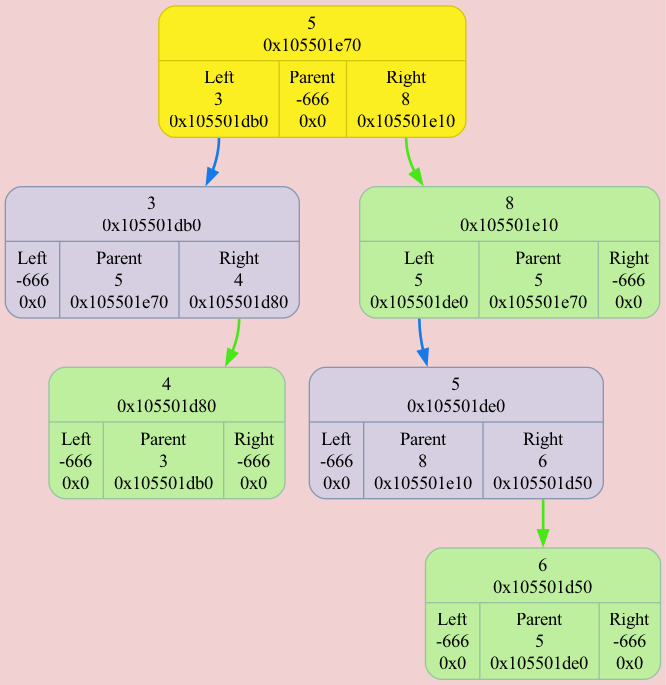
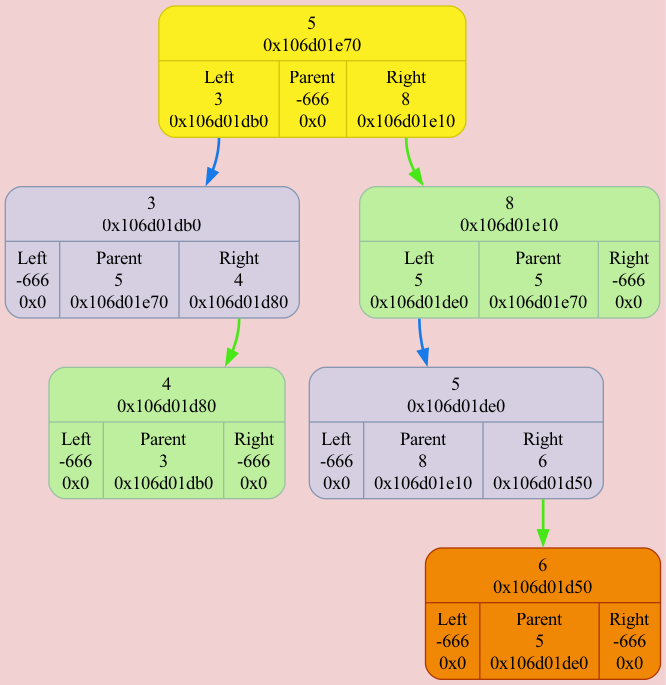
v4.0

diff --git a/dump/tree.html b/dump/tree.html
@@ -13,7 +13,7 @@
 		<div class='circle' style='background-color: #BDEF9E; border-color: #99c2a2;'>right subtree node</div>		<span style='color: #48E818'>&#11153; right subtree edge</span>
 		<div class='circle' style='background-color: #FBEE21; border-color: #D3C70D;'>root node</div>	</div>
 
-						<b>Binary Tree[0x16d4631d0] born at "/Users/anatolij/Documents/GitHub/BinaryTree/source/main.cpp": 11, name 'tree'</b>
+						<b>Binary Tree[0x16bc931b0] born at "/Users/anatolij/Documents/GitHub/BinaryTree/source/main.cpp": 11, name 'tree'</b>
 	<div class='dump'>
 	DUMP #1: function INSERT_IN_TREE was called from /Users/anatolij/Documents/GitHub/BinaryTree/source/main.cpp: 16
 	<img src='img/graph1.png' class='img'></div>

diff --git a/source/BinaryTree_dump.cpp b/source/BinaryTree_dump.cpp
@@ -239,7 +239,7 @@ BinaryTreeStatusCode BinaryTreeGraphDump(Tree* tree, DumpLogInfo dump_info) {
 	DOT_PRINTF("\tfontname = \"UbuntuMono\";\n");
 	DOT_PRINTF("\tbgcolor = %s;\n\n", color.dot_background);
 
-	NodeGraphDump(tree->root, dot_file);
+	NodeGraphDump(tree->root, dot_file, dump_info);
 
 	DOT_PRINTF("}\n");
 
@@ -254,7 +254,7 @@ BinaryTreeStatusCode BinaryTreeGraphDump(Tree* tree, DumpLogInfo dump_info) {
 	return TREE_NO_ERROR;
 }
 
-BinaryTreeStatusCode NodeGraphDump(Node_t* cur_root, FILE* dot_file) {
+BinaryTreeStatusCode NodeGraphDump(Node_t* cur_root, FILE* dot_file, DumpLogInfo dump_info) {
 
 #define DOT_PRINTF(...) fprintf(dot_file, __VA_ARGS__);
 
@@ -268,18 +268,37 @@ BinaryTreeStatusCode NodeGraphDump(Node_t* cur_root, FILE* dot_file) {
 
 	if (cur_root->left) {
 		DOT_PRINTF("\tnode%p:<left> -> node%p [ style = \"bold\"; color = %s ];\n", cur_root, cur_root->left, color.left_edge);
-		NodeGraphDump(cur_root->left, dot_file);
+		NodeGraphDump(cur_root->left, dot_file, dump_info);
 	}
 	if (cur_root->right) {
 		DOT_PRINTF("\tnode%p:<right> -> node%p [ style = \"bold\"; color = %s ];\n", cur_root, cur_root->right, color.right_edge);
-		NodeGraphDump(cur_root->right, dot_file);
-				DOT_PRINTF("\tnode%p [ shape = Mrecord; style = filled; fillcolor = %s; color = %s; fontcolor = %s;"
+		NodeGraphDump(cur_root->right, dot_file, dump_info);
+		DOT_PRINTF("\tnode%p [ shape = Mrecord; style = filled; fillcolor = %s; color = %s; fontcolor = %s;"
 				"label = \" { %d\\n%p | { <left> Left\\n%d\\n%p | Parent\\n%d\\n%p | <right> Right\\n%d\\n%p } } \";  ];\n",
 				cur_root->right, color.right_node, color.right_node_border, color.node_font,
 				cur_root->right->data, cur_root->right,
 				(cur_root->right->left ? cur_root->right->left->data : UNKNOWN_WHAT), cur_root->right->left,
 				(cur_root->right->parent ? cur_root->right->parent->data : UNKNOWN_WHAT), cur_root->right->parent,
 				(cur_root->right->right ? cur_root->right->right->data : UNKNOWN_WHAT), cur_root->right->right);
+	}
+
+	if (cur_root->right == dump_info.pointer) {
+		DOT_PRINTF("\tnode%p [ shape = Mrecord; style = filled; fillcolor = %s; color = %s; fontcolor = %s;"
+				"label = \" { %d\\n%p | { <left> Left\\n%d\\n%p | Parent\\n%d\\n%p | <right> Right\\n%d\\n%p } } \";  ];\n",
+				cur_root->right, color.new_node, color.new_node_border, color.node_font,
+				cur_root->right->data, cur_root->right,
+				(cur_root->right->left ? cur_root->right->left->data : UNKNOWN_WHAT), cur_root->right->left,
+				(cur_root->right->parent ? cur_root->right->parent->data : UNKNOWN_WHAT), cur_root->right->parent,
+				(cur_root->right->right ? cur_root->right->right->data : UNKNOWN_WHAT), cur_root->right->right);
+	}
+	if (cur_root->left == dump_info.pointer) {
+		DOT_PRINTF("\tnode%p [ shape = Mrecord; style = filled; fillcolor = %s; color = %s; fontcolor = %s;"
+				"label = \" { %d\\n%p | { <left> Left\\n%d\\n%p | Parent\\n%d\\n%p | <right> Right\\n%d\\n%p } } \";  ];\n",
+				cur_root->left, color.new_node, color.new_node_border, color.node_font,
+				cur_root->left->data, cur_root->left,
+				(cur_root->left->left ? cur_root->left->left->data : UNKNOWN_WHAT), cur_root->left->left,
+				(cur_root->left->parent ? cur_root->left->parent->data : UNKNOWN_WHAT), cur_root->left->parent,
+				(cur_root->left->right ? cur_root->left->right->data : UNKNOWN_WHAT), cur_root->left->right);
 	}
 
 #undef DOT_PRINTF

diff --git a/include/BinaryTree.hpp b/include/BinaryTree.hpp
@@ -9,9 +9,9 @@ typedef int Data_t;
 
 #define INIT_TREE(tree) Tree tree = { .root = CreateNode(UNKNOWN_WHAT), .info = {.name = #tree, .file_name = __FILE__, .line = __LINE__} }; TREE_CTOR();
 
-#define BINARY_TREE_GRAPH_DUMP(tree, func_name) {	 														\
-	tree_status = BinaryTreeGraphDump(tree, {.file = __FILE__, .line = __LINE__, .func = func_name});		\
-	TREE_ERROR_CHECK(tree_status);																	 		\
+#define BINARY_TREE_GRAPH_DUMP(tree, func_name, point) {	 																\
+	tree_status = BinaryTreeGraphDump(tree, {.file = __FILE__, .line = __LINE__, .func = func_name, .pointer = point});		\
+	TREE_ERROR_CHECK(tree_status);																	 					   \
 }
 
 #define PRINT_TREE(root, order) {			 \
@@ -43,15 +43,18 @@ typedef int Data_t;
 
 #ifndef PRINT_DEBUG
 	#define INSERT_IN_TREE(tree, new_element_data, order) {					 		 \
-		tree_status = InsertInTree((tree)->root, CreateNode(new_element_data));		\
+		Node_t* new_node =  CreateNode(new_element_data);							\
+		tree_status = InsertInTree((tree)->root, new_node);							\
 		TREE_ERROR_CHECK(tree_status);												\
-		BINARY_TREE_GRAPH_DUMP(tree, "INSERT_IN_TREE");								\
+		BINARY_TREE_GRAPH_DUMP(tree, "INSERT_IN_TREE", new_node);					\
 	}
 #else
 	#define INSERT_IN_TREE(root, new_element_data, order) {					 \
-		tree_status = InsertInTree(root, CreateNode(new_element_data));		\
+		Node_t* new_node =  CreateNode(new_element_data);					\
+		tree_status = InsertInTree(root, new_node);							\
 		TREE_ERROR_CHECK(tree_status);										\
 		PRINT_TREE(root, order)												\
+		BINARY_TREE_GRAPH_DUMP(tree, "INSERT_IN_TREE", new_node);			\
 	}
 #endif
 

diff --git a/include/BinaryTree_dump.hpp b/include/BinaryTree_dump.hpp
@@ -24,12 +24,13 @@ struct DumpLogInfo {
 	const char* file;
 	const size_t line;
 	const char* func;
+	const Node_t* pointer;
 };
 
 BinaryTreeStatusCode BinaryTreeCssFile();
 BinaryTreeStatusCode BinaryTreeCreateDumpDir();
 BinaryTreeStatusCode BinaryTreeBashScript(Tree* tree, DumpLogInfo dump_info);
 BinaryTreeStatusCode BinaryTreeGraphDump(Tree* tree, DumpLogInfo dump_info);
-BinaryTreeStatusCode NodeGraphDump(Node_t* cur_root, FILE* dot_file);
+BinaryTreeStatusCode NodeGraphDump(Node_t* cur_root, FILE* dot_file, DumpLogInfo dump_info);
 
 #endif //BINARY_TREE_DUMP
